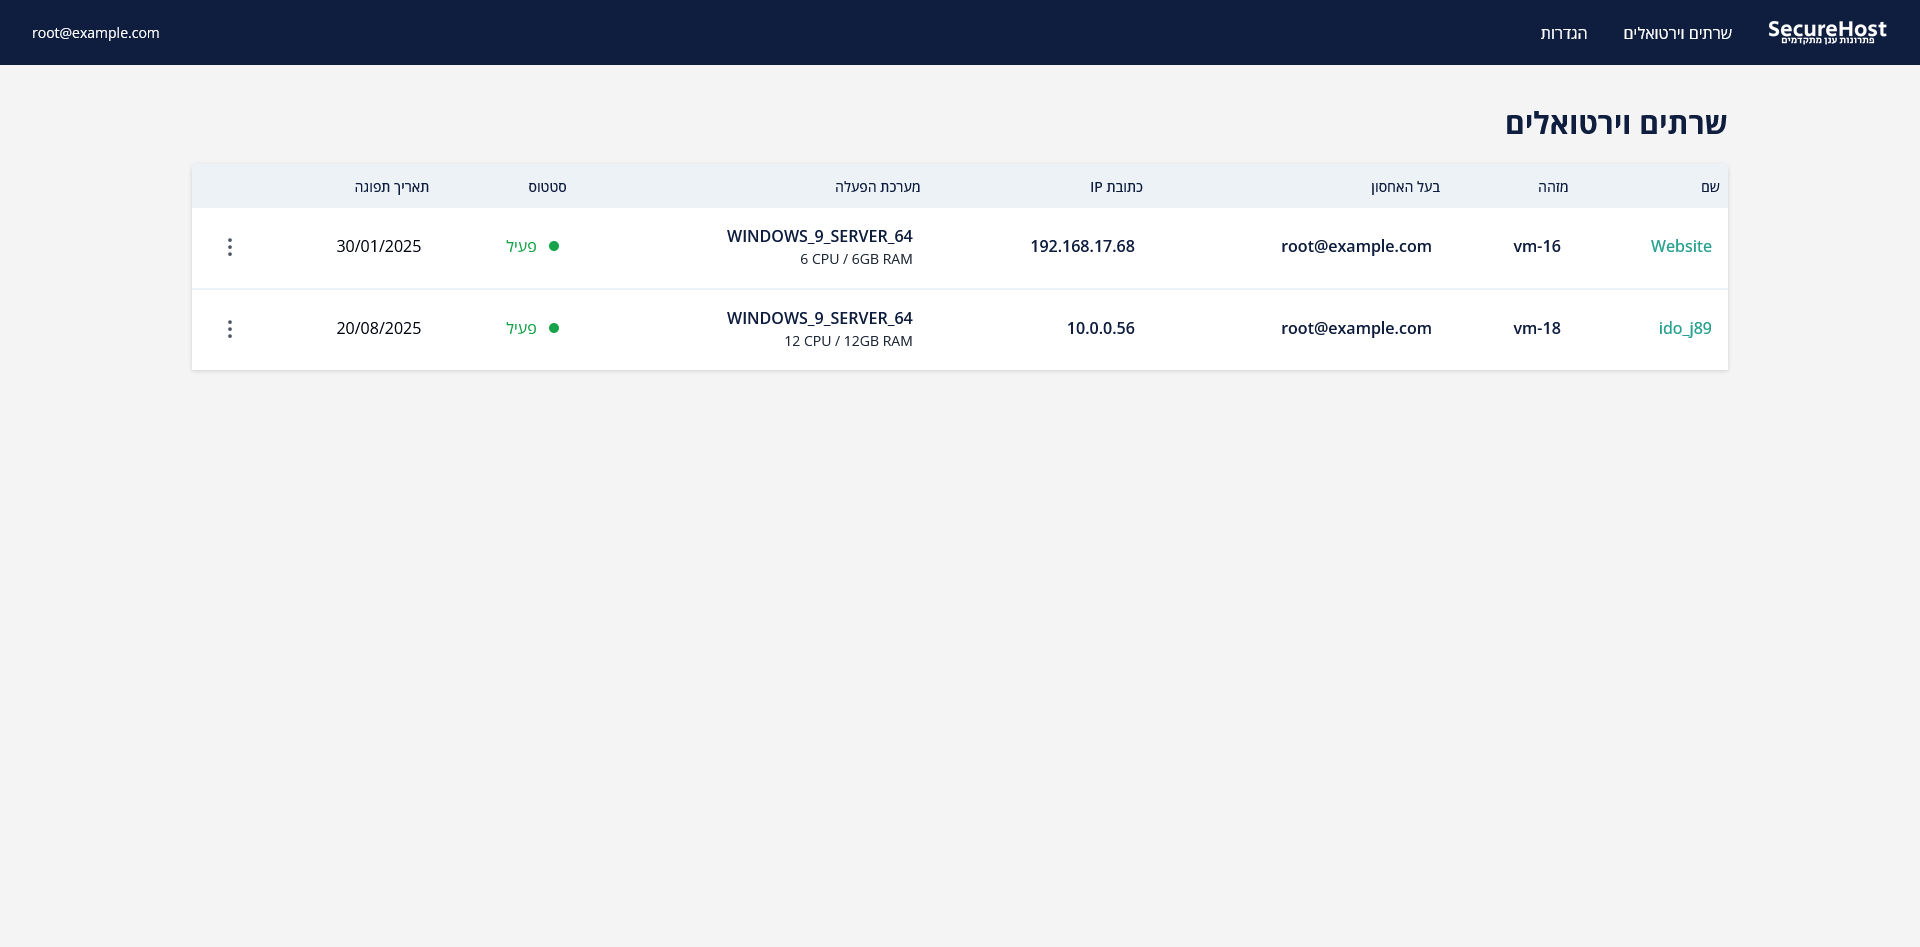
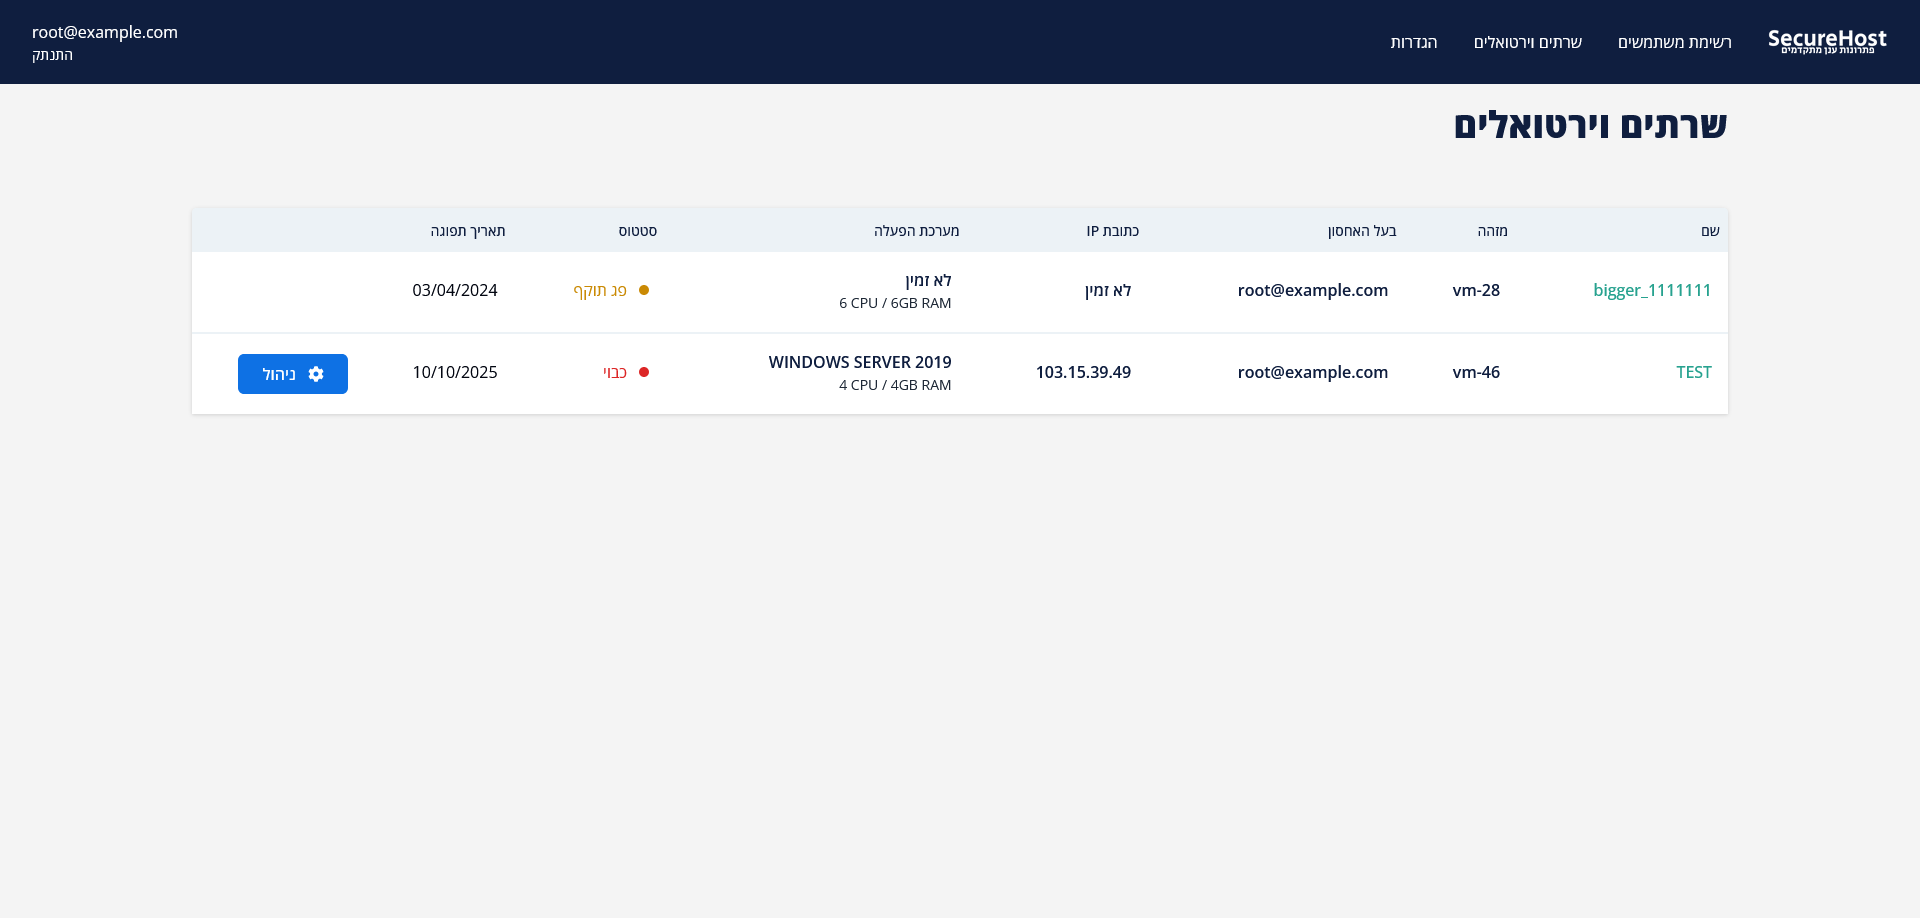
update securehost page to show current changes

diff --git a/src/data/blog/securehost/SecureHost.md b/src/data/blog/securehost/SecureHost.md
@@ -6,16 +6,20 @@ topic: project
 slug: securehost
 ---
 
-Development of a cloud provider website for SecureHost, a cloud servers provider based in israel
+Development of a cloud provider website for SecureHost, a cloud servers provider based in Israel
 
 My objective was to develop a comprehensive platform that would help clients to manage their cloud servers with a single click, purchase a new server or upgrade an existing one and more.
 
 ![SecureHost landing page](securehost_landing.png)
 
-Leveraging the power of Laravel with React and Tailwindcss, I delivered a solution that meet the requirements and brings efficiency and great user experience.
+Leveraging the power of Laravel with React (Inertia) and Tailwindcss, I delivered a solution that meet the requirements and brings efficiency and great user experience.
 
 ![SecureHost panel](securehost_panel.png)
 
-The website contains a landing page, products page for each category, user panel which allows users to start, stop and restart their own virtual machine, a purchase page and an admin panel that shows registered users, purchases and virtual machines owned by users.
+The website contains a landing page, products page for each category, user panel which allows users to start, stop and restart their own virtual machine, as well as changing guest password in a supported operating system.
+The website also has an admin panel that shows registered users, virtual machines owned by users which allows the SecureHost team to assign each server to its owner.
+
+![SecureHost login page](securehost_login.png)
+
 
 <a href="https://securehost.store/" target="_blank" class="siia-btn">See it in action</a>
